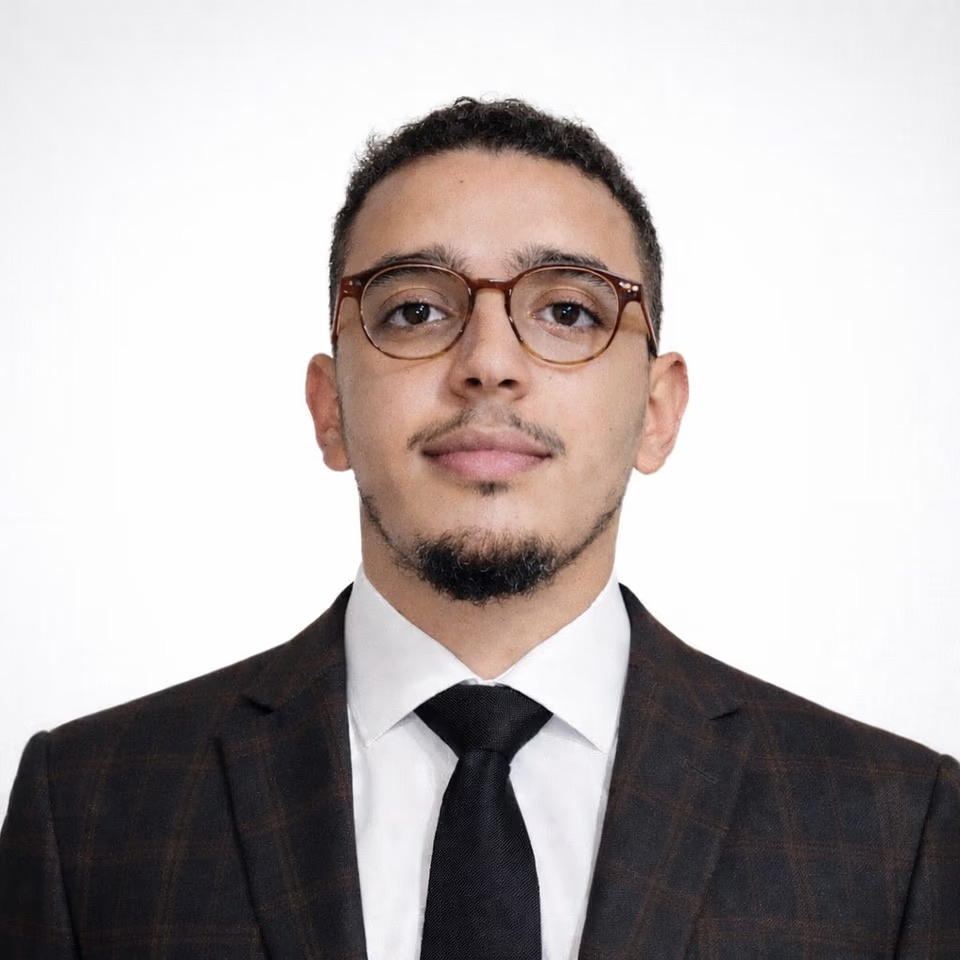
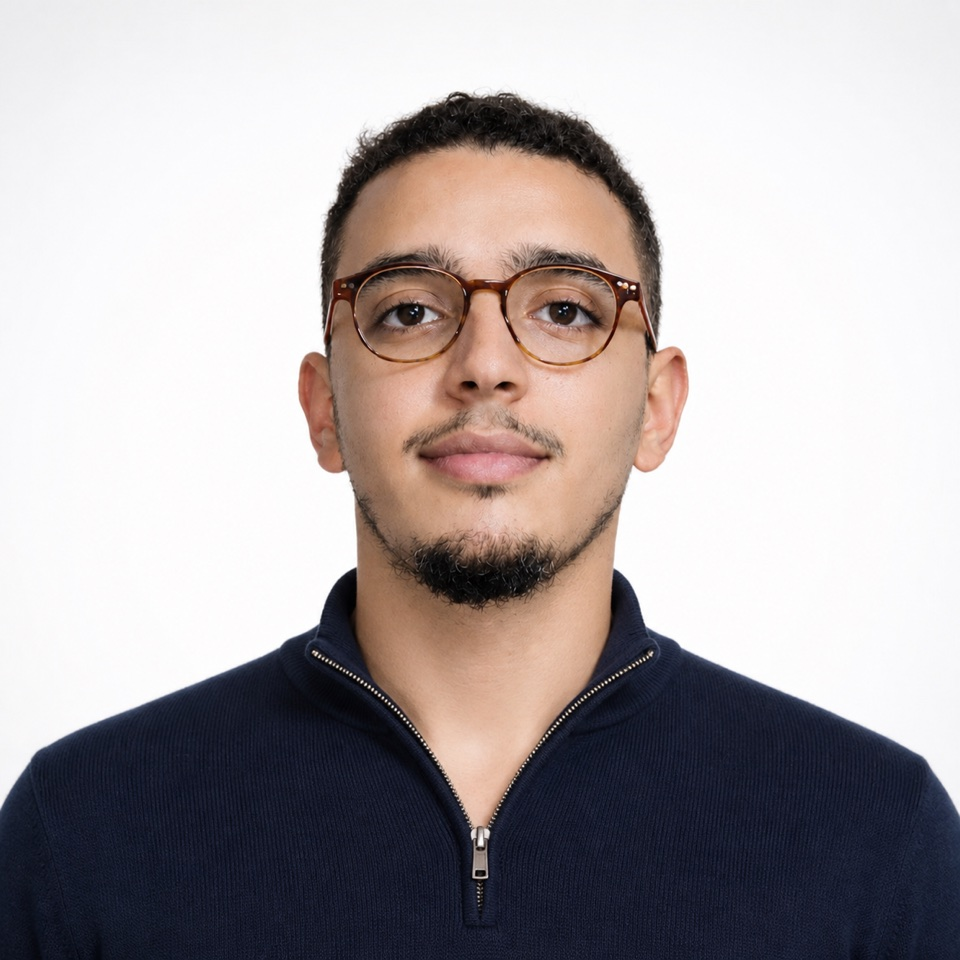
Replace Pro portrait with casual gaze set

diff --git a/design-qa.md b/design-qa.md
@@ -1,4 +1,4 @@
-# Portfolio — interactive Pro systems shelf and cursor portrait design QA
+# Portfolio — interactive Pro systems shelf and casual cursor portrait design QA
 
 ## Evidence
 
@@ -21,6 +21,10 @@
 - Browser-rendered neutral hero: `/Users/walidelkhoukh/Desktop/Career/walid-portfolio/design-qa-evidence/implementation-gaze-center.png` (1910 × 1074 pixels at a 1910 × 1075 CSS viewport).
 - Focused browser crops: `/Users/walidelkhoukh/Desktop/Career/walid-portfolio/design-qa-evidence/implementation-gaze-left-focus.jpg`, `/Users/walidelkhoukh/Desktop/Career/walid-portfolio/design-qa-evidence/implementation-gaze-up-focus.jpg`, and `/Users/walidelkhoukh/Desktop/Career/walid-portfolio/design-qa-evidence/implementation-gaze-down-focus.jpg` (each 440 × 455 pixels, matching the rendered portrait component).
 - Combined behavior and asset comparison: `/Users/walidelkhoukh/Desktop/Career/walid-portfolio/design-qa-evidence/reference-vs-implementation-gaze.png` (1910 × 1074 pixels). The source and implementation frames are normalized into matching visual cells; the nine production frames are shown together beneath them.
+- Selected casual source truth: `/Users/walidelkhoukh/Desktop/Career/walid-portfolio/design-qa-evidence/reference-casual-quarter-zip.jpg` (960 × 960 pixels, navy fine-knit quarter-zip).
+- Browser-rendered casual Pro hero: `/Users/walidelkhoukh/Desktop/Career/walid-portfolio/design-qa-evidence/implementation-casual-gaze-desktop.png` (1910 × 1074 pixels at a 1910 × 1075 CSS viewport).
+- Current same-state focused comparison: `/Users/walidelkhoukh/Desktop/Career/walid-portfolio/design-qa-evidence/reference-vs-implementation-casual-gaze.png` (920 × 463 pixels). Both cells use the same 440 × 423 crop; the implementation intentionally applies the portfolio's grayscale and contrast treatment.
+- Compact Pro check: the browser surface reported a 582 × 1260 CSS viewport for the requested 390 × 844 override; the portrait loaded at 960 × 960 natural pixels and the page retained zero horizontal overflow.
 
 ## Design translation
 
@@ -28,7 +32,7 @@
 - The implementation deliberately keeps the portfolio’s warm ivory, near-black, and vermilion editorial language instead of reproducing the reference site’s dark interface.
 - Books become professional case files for platform modernization, ERP coexistence, and global finance analytics. The visual interaction therefore reinforces Walid’s data-engineering positioning rather than behaving as decoration.
 - Two new portrait editorial covers were generated as real raster assets, then compressed from approximately 2.3 MB PNG sources to 396 KB and 420 KB JPEGs for production use. The first case reuses the existing governed-lineage artwork.
-- The cursor portrait uses the original professional headshot as the neutral center plus eight identity-preserving generated directions. All nine frames share a 960 × 960 crop and are compressed to approximately 1.2 MB total.
+- The cursor portrait now uses the user's selected casual navy quarter-zip portrait as the neutral center plus eight identity-preserving generated directions. All nine production frames share a 960 × 960 crop and total approximately 1.6 MB.
 
 ## Findings
 
@@ -39,7 +43,7 @@
 - Moving the cursor across a different cover now updates the selected book, counter, case heading, copy, and facts immediately. A desktop pointer click on a cover no longer drives selection or inspection.
 - The compact layout switches to one column, removes the inherited detail-panel height, preserves a 40-pixel shelf-to-detail gap, and keeps controls at comfortable widths.
 - The portrait now follows the cursor across the full Pro viewport through a nine-state direction grid. Left, up, down, right, and all four diagonal states change the head angle and eye gaze rather than merely tilting a flat image.
-- Source-vs-implementation comparison confirms the three directly supplied reference states—left, up, and down—are represented clearly. The identity, suit, glasses, beard, white backdrop, grayscale treatment, and portfolio crop remain consistent across the set.
+- Source-vs-implementation comparison confirms the selected casual identity and wardrobe survive the production crop and grayscale treatment. The navy quarter-zip, glasses, beard, white backdrop, and portfolio framing remain consistent across the set.
 - The 120 ms two-layer crossfade removes loading flashes, while a restrained 2.5-pixel parallax and sub-1.1-degree frame tilt add depth without changing the editorial composition.
 
 ## Cursor portrait fidelity surfaces
@@ -71,8 +75,9 @@
 - French page exposes three localized case panels, a localized selection label, and the “Inspecter” control.
 - Compact Pro image check loaded all four relevant assets successfully with non-zero natural dimensions.
 - Browser console logs returned no errors during English, French, selection, inspection, and keyboard checks.
-- `node --check assets/portfolio-v3.js` and `git diff --check` passed.
+- Full HTML validation, XML validation, `node --check` for both shared scripts, and `git diff --check` passed. The validator's native-element preference is disabled for the intentional custom ARIA region/listbox used by the 3D case shelf.
 - Cursor matrix test moved the real browser pointer through all nine target regions. Every expected value matched `data-gaze-direction`, and every visible layer loaded the corresponding 960 × 960 frame.
+- The regenerated casual matrix passed the same nine-region test: center, four cardinals, and four diagonals each loaded the expected navy quarter-zip asset.
 - English neutral, left, up, and down states were captured from the rendered page. The French page loaded the up-right frame, retained the localized title, and had zero horizontal overflow.
 - Switching to Perso reset the hidden Pro portrait from `down-right` to `center`; the AI Lab logo retained natural dimensions and computed opacity `1`.
 - The desktop hero retained zero horizontal overflow, the neutral portrait loaded at 960 × 960 natural pixels, and browser error logs were empty.
@@ -97,5 +102,8 @@
 2. A nine-frame identity-preserving set was generated from the existing professional portrait. The exact source portrait was retained as the center state to avoid neutral-state identity drift.
 3. The hero was upgraded to two stacked image layers, page-wide pointer mapping, a three-by-three direction grid, preloading, and a 120 ms crossfade.
 4. Visual QA compared left, up, and down states directly with the user-provided frames, then reviewed all nine assets together. No P0/P1/P2 visual or functional issue remained.
+5. The user selected the casual navy quarter-zip direction. That exact image became the new neutral frame, and eight new gaze directions were generated from it while preserving identity, wardrobe, lighting, and white studio background.
+6. The production assets were resized to 960 × 960 JPEGs at quality 84 and replaced in place, so the existing crossfade and cursor mapping required no behavioral rewrite.
+7. Post-replacement browser QA exercised all nine cursor regions on English and the up-right state on French, checked desktop and compact overflow, confirmed stable titles, and found no console errors.
 
 final result: passed

diff --git a/assets/images/portrait-gaze/README.md b/assets/images/portrait-gaze/README.md
@@ -2,13 +2,14 @@
 
 Nine 960 × 960 frames power the professional hero portrait:
 
-- `walid-gaze-center.jpg` — original professional portrait, used as the neutral state.
+- `walid-gaze-center.jpg` — front-facing navy quarter-zip portrait, used as the neutral state.
 - `walid-gaze-up-left.jpg`, `walid-gaze-up.jpg`, `walid-gaze-up-right.jpg`.
 - `walid-gaze-left.jpg`, `walid-gaze-right.jpg`.
 - `walid-gaze-down-left.jpg`, `walid-gaze-down.jpg`, `walid-gaze-down-right.jpg`.
 
-The eight directional frames were generated from the center portrait with the
-built-in image generation workflow. Each prompt used the `identity-preserve`
-edit mode and changed only the restrained head angle and eye gaze while keeping
-the crop, suit, glasses, hair, facial hair, lighting, background, and expression
-consistent. The delivered JPEGs are resized to 960 × 960 at quality 78.
+The eight directional frames were generated from the selected casual center
+portrait with the built-in image generation workflow. Each prompt used the
+`identity-preserve` edit mode and changed only the restrained head angle and eye
+gaze while keeping the crop, navy quarter-zip, glasses, hair, facial hair,
+lighting, background, and expression consistent. The delivered JPEGs are
+resized to 960 × 960 at quality 84.
